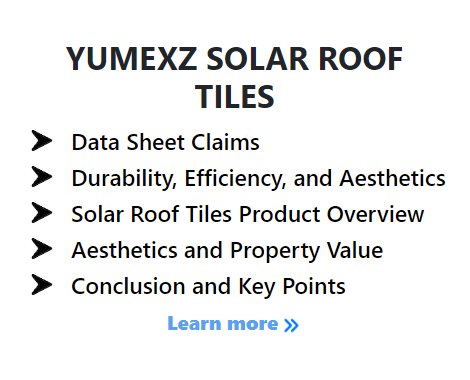
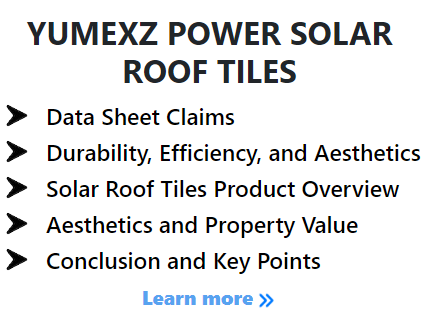
updated-secondcard

Changed region(s): [[0.0, 0.4242, 1.0, 0.9394], [0.0615, 0.0606, 0.922, 0.303], [0.0, 0.303, 0.5532, 0.3939]]

diff --git a/src/Component/Hero.jsx b/src/Component/Hero.jsx
@@ -11,6 +11,7 @@ import Ten from '../assets/Ten.pdf';
 import vectorarrow from '../assets/vectorarrow.png';
 import learnarrow from '../assets/learnarrow.png';
 import tiles from '../assets/tiles.png';
+import carports from '../assets/carports.png';
 import cocacola from '../assets/cocacola.jpg';
 import crossriver from '../assets/crossriver.jpg';
 import daewoo from '../assets/daewoo.jpg';
@@ -65,7 +66,7 @@ function HeroSection() {
 
     <Col md={4} xs={6}>
       <div>
-        <h2 className='d-flex fw-bolder'>YUMEXZ SOLAR ROOF TILES</h2>
+        <h2 className='d-flex fw-bolder'>YUMEXZ POWER SOLAR ROOF TILES</h2>
         <a href={First} download={true} style={{ color: 'black', textDecoration: 'none' }} className='fw-bold'>
           <div className="d-flex align-items-center">
             <img src={vectorarrow} alt="vectorarrow" style={{ marginRight: '10px' }} />
@@ -128,7 +129,7 @@ function HeroSection() {
       <div>
         <a href={First} download={true} style={{ color: 'black', textDecoration: 'none' }} className='fw-bold'>
           <div className="d-flex align-items-center">
-            <img src={tiles} alt="rooftiles"  className='w-100'/>
+            <img src={carports} alt="rooftiles"  className='w-100'/>
           </div>
         </a>
       </div>
